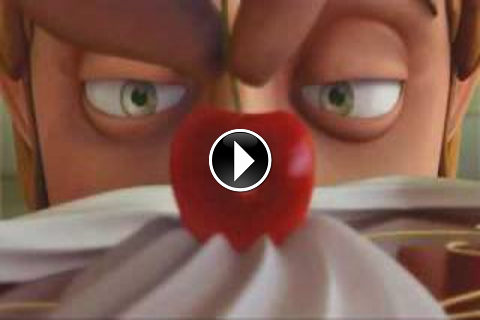
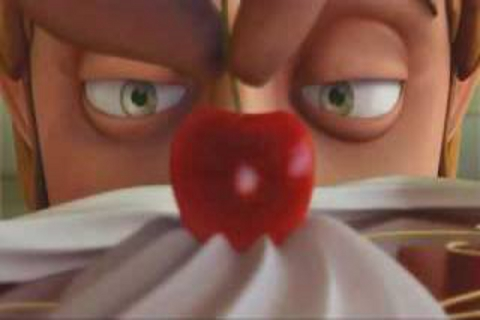
improved death match

Changed region(s): [[0.4375, 0.4062, 0.5938, 0.625]]

diff --git a/js/30sec.js b/js/30sec.js
@@ -3,11 +3,42 @@ function vote(videoId,vote){
 	  url: 'vote.jsp?videoId='+videoId+'&vote=' + vote,
 	  success: function(data) {
 	    $('.result').html(data);
-	    //alert(data);
 	    document.getElementById('down').onclick="return false;";
 	    document.getElementById('up').onclick="return false;";
-	    //document.getElementById('stat').style.display='block';	
 	    document.getElementById('rating').innerHTML=data
 	  }
 	});
 }
+function voteDeathMatch(videoId,vote){
+	$.ajax({
+	  url: 'vote.jsp?videoId='+videoId+'&vote=' + vote,
+	  success: function(data) {
+	    $('.result').html(data);
+	    document.getElementById('v1').onclick="return false;";
+	    document.getElementById('v2').onclick="return false;";
+	    location.href='stats.jsp'
+	  }
+	});
+}
+
+$(function() {
+
+	var moveLeft = 30;
+	var moveDown = 60;
+
+	$('a').hover(function(e) {
+
+	
+    $('div#pop-up_' + this.id ).show()
+      .css('top', e.pageY + moveDown)
+      .css('left', e.pageX + moveLeft)
+      .appendTo('body');
+  }, function() {
+    $('div#pop-up_' + this.id ).hide();
+  });
+
+  $('a').mousemove(function(e) {
+    $("div#pop-up_" + this.id ).css('top',  e.pageY - moveDown).css('left', e.pageX + moveLeft);
+  });
+
+});

diff --git a/css/style.css b/css/style.css
@@ -180,3 +180,15 @@ h3 {
 .iphone .button.red { background-position:0 -280px }
 .iphone .button.red:active { background-position:0 -630px }
 /*/Buttons*/
+
+/* HOVER STYLES */
+.pop-up {
+  display: none;
+  position: absolute;
+  width: 280px;
+  padding: 10px;
+  background: #eeeeee;
+  color: #000000;
+  border: 1px solid #1a1a1a;
+  font-size: 50%;
+}

diff --git a/swipe.js b/swipe.js
@@ -108,7 +108,6 @@ Swipe.prototype = {
   },
 
   getPos: function() {
-    
     // return current index position
     return this.index;
 
@@ -122,6 +121,7 @@ Swipe.prototype = {
 
     // if not at first slide
     if (this.index) this.slide(this.index-1, this.speed);
+    else this.slide(this.length-1, this.speed);
 
   },
 

diff --git a/css/iphone.css b/css/iphone.css
@@ -385,6 +385,7 @@
     width:64px;
     height:64px;
     text-indent:-99999px;
+    background-image: url("images/play_icon.png");
 }
 
 .iphone .rightbutton {
